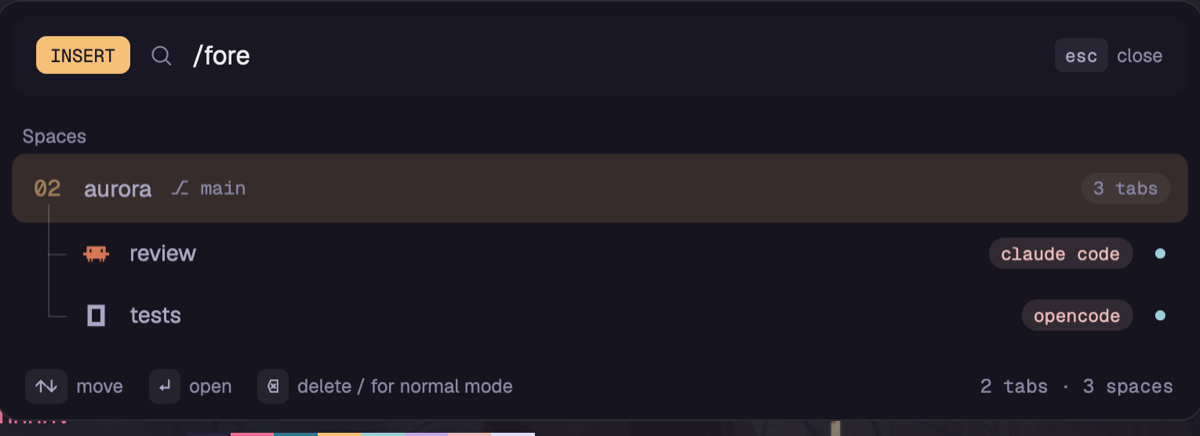
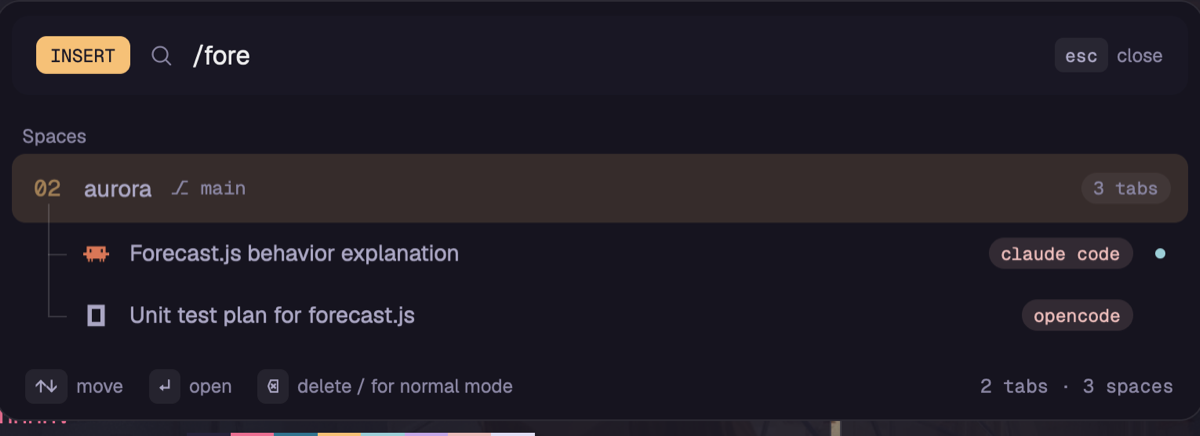
Use the agent's session name for agent tabs everywhere
Go to and the tab bar now label an agent tab with its session name, like
the sidebar, before any name given to the tab. Go to screenshots retaken.

Changed region(s): [[0.0925, 0.6858, 0.37, 0.7454], [0.0925, 0.5665, 0.4008, 0.6261], [0.9558, 0.7156, 0.9867, 0.7454]]

diff --git a/mods/my-goto/main.js b/mods/my-goto/main.js
@@ -1,5 +1,3 @@
-// Modified for Herdr Rice by NA29: personal interface and behavior.
-// Licensed under Apache-2.0; see LICENSE, NOTICE and THIRD_PARTY.md.
 // Personal Go to screen (replaces the shipped picker in my-main): cmd-p, the sidebar's
 // search icon, and Ctrl+A g.
 //   Needs you   tabs whose agents are blocked or finished, first
@@ -15,11 +13,11 @@ import { View, div, svg, image } from "gpui-kit";
 import { v_flex, h_flex, InputState, Input } from "gpui-base";
 import { agents, spaces, panes, run, hc, theme, keys, props, closeOverlay, openOverlay, shared, setShared, home } from "herdr";
 
-// Personal: a tab's label. A name you gave it wins; else what's in it: the agent's session
-// name (from its terminal title), else the program running ("nvim"), else the shell's
-// folder. Herdr's own name for an unnamed tab is just its number.
+// Personal: a tab's label, the same name the sidebar shows. An agent's session name (from
+// its terminal title) wins; else a name you gave the tab; else what's in it: a program's
+// telling title or name ("nvim"), else the shell's folder. Herdr's own name for an unnamed
+// tab is just its number.
 function tabLabel(tab, ps, homeDir) {
-  if (tab.named) return tab.name;
   const mine = ps.filter((p) => p.tab === tab.id && p.terminal);
   const lead = mine.find((p) => p.program?.agent) ?? mine.find((p) => p.focused) ?? mine[0];
   if (!lead) return tab.name;
@@ -32,9 +30,12 @@ function tabLabel(tab, ps, homeDir) {
     const said = [lead.program?.name, lead.program?.key, lead.app].filter(Boolean).map((x) => x.toLowerCase());
     const generic = !raw || said.includes(low) || low === base(lead.cwd).toLowerCase() || /^[~/]/.test(raw) || raw.includes("@")
       || /^(claude( code)?|codex|open ?code|shell)$/.test(low) || /^new session\b/.test(low);
+    if (!generic && lead.program?.agent) return raw;
+    if (tab.named) return tab.name;
     if (!generic) return raw;
     if (lead.program?.name && lead.program.name !== "program") return lead.program.name;
   }
+  if (tab.named) return tab.name;
   return base(lead.cwd) || tab.name;
 }
 

diff --git a/mods/sleek-tabs/main.js b/mods/sleek-tabs/main.js
@@ -1,5 +1,3 @@
-// Modified for Herdr Rice by NA29: personal interface and behavior.
-// Licensed under Apache-2.0; see LICENSE, NOTICE and THIRD_PARTY.md.
 import { View, div, svg, image } from "gpui-kit";
 import { h_flex } from "gpui-base";
 import { spaces, panes, run, openOverlay, theme, window, shared, layout, settings, home } from "herdr";
@@ -15,11 +13,11 @@ const glass = (c) => {
   return p >= 100 || !/^#[0-9a-f]{6}$/i.test(c) ? c : c + Math.round((p / 100) * 255).toString(16).padStart(2, "0");
 };
 
-// Personal: a tab's label. A name you gave it wins; else what's in it: the agent's session
-// name (from its terminal title), else the program running ("nvim"), else the shell's
-// folder. Herdr's own name for an unnamed tab is just its number.
+// Personal: a tab's label, the same name the sidebar shows. An agent's session name (from
+// its terminal title) wins; else a name you gave the tab; else what's in it: a program's
+// telling title or name ("nvim"), else the shell's folder. Herdr's own name for an unnamed
+// tab is just its number.
 function tabLabel(tab, ps, homeDir) {
-  if (tab.named) return tab.name;
   const mine = ps.filter((p) => p.tab === tab.id && p.terminal);
   const lead = mine.find((p) => p.program?.agent) ?? mine.find((p) => p.focused) ?? mine[0];
   if (!lead) return tab.name;
@@ -32,9 +30,12 @@ function tabLabel(tab, ps, homeDir) {
     const said = [lead.program?.name, lead.program?.key, lead.app].filter(Boolean).map((x) => x.toLowerCase());
     const generic = !raw || said.includes(low) || low === base(lead.cwd).toLowerCase() || /^[~/]/.test(raw) || raw.includes("@")
       || /^(claude( code)?|codex|open ?code|shell)$/.test(low) || /^new session\b/.test(low);
+    if (!generic && lead.program?.agent) return raw;
+    if (tab.named) return tab.name;
     if (!generic) return raw;
     if (lead.program?.name && lead.program.name !== "program") return lead.program.name;
   }
+  if (tab.named) return tab.name;
   return base(lead.cwd) || tab.name;
 }
 
